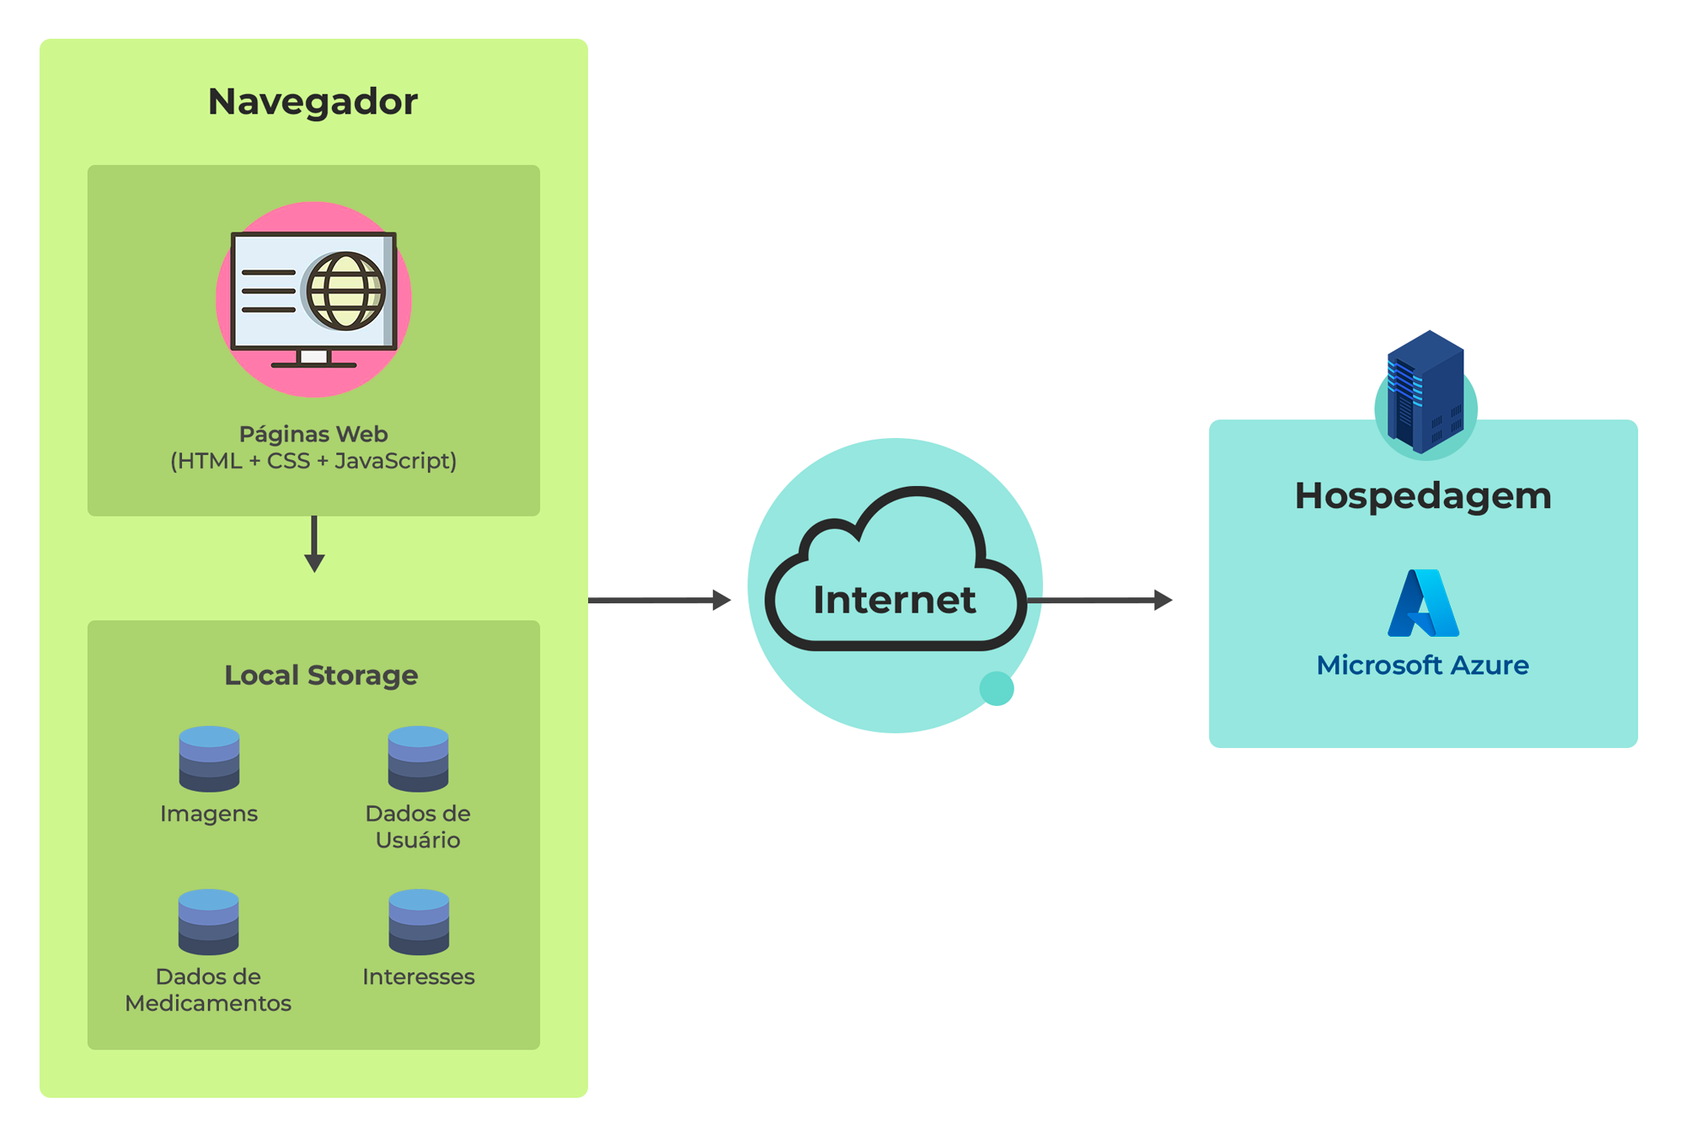
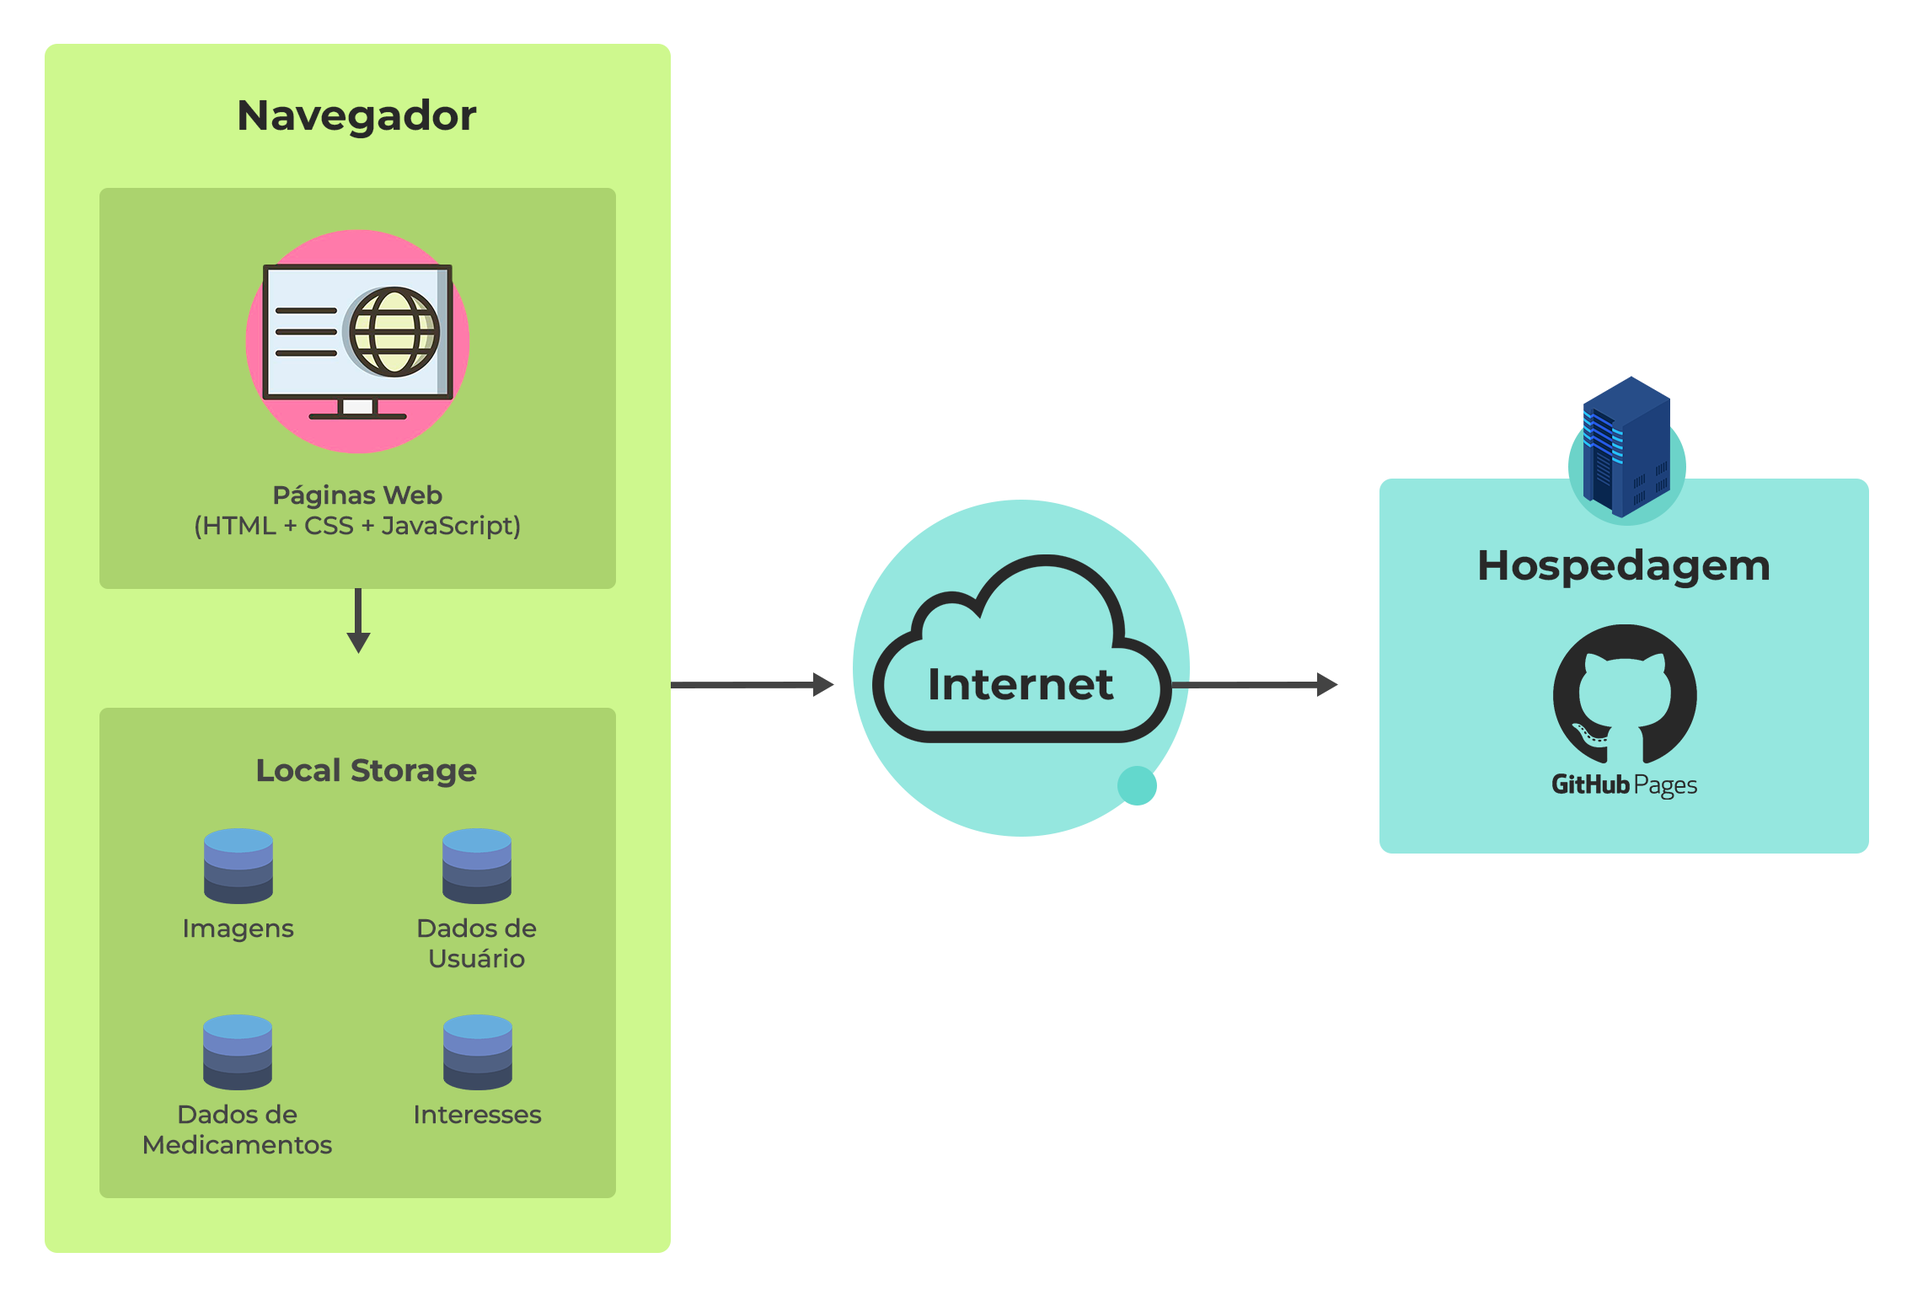
Atualizando Documentação (5, 6 e 7)

diff --git a/docs/06-Template padrão do Site.md b/docs/06-Template padrão do Site.md
@@ -1,12 +1,119 @@
 # Template padrão do site
 
-<span style="color:red">Pré-requisitos: <a href="2-Especificação do Projeto.md"> Especificação do Projeto</a></span>, <a href="3-Projeto de Interface.md"> Projeto de Interface</a>, <a href="4-Metodologia.md"> Metodologia</a>
+O template padrão do site vai seguir a estrutura padrão do Wireframe elaborado na seção anterior, conforme mostra a Figura 15.
 
-Layout padrão do site (HTML e CSS) que será utilizado em todas as páginas com a definição de identidade visual, aspectos de responsividade e iconografia.
+![Estrutura Padrão](img/figura15-estruturapadrao.png)
 
-> **Links Úteis**:
->
-> - [CSS Website Layout (W3Schools)](https://www.w3schools.com/css/css_website_layout.asp)
-> - [Website Page Layouts](http://www.cellbiol.com/bioinformatics_web_development/chapter-3-your-first-web-page-learning-html-and-css/website-page-layouts/)
-> - [Perfect Liquid Layout](https://matthewjamestaylor.com/perfect-liquid-layouts)
-> - [How and Why Icons Improve Your Web Design](https://usabilla.com/blog/how-and-why-icons-improve-you-web-design/)
+Para visualizar o template é só acessar o repositório do grupo [aqui](https://github.com/ICEI-PUC-Minas-PMV-ADS/REDOM-PET). O mesmo é composto pelos seguintes layouts:  
+
+- Tela da Homepage 
+- Tela de Login 
+- Tela de Cadastro de Usuário 
+- Tela de Medicamentos  
+- Tela de Cadastro do Medicamento 
+- Tela de Informações do Medicamento/Contato do doador
+- Tela de Perfil do Usuário 
+- Tela de Edição do Medicamento 
+
+A responsividade do site segue o padrão do Bootstrap.
+  
+##Tela – Homepage
+ 
+Objetivo: ser a primeira página que os usuários veem ao acessar a URL do site. 
+
+![Homepage](img/figura16-homepage.png)
+
+- Ao acessar o site o usuário irá visualizar, no topo da página, na área de navegação, a logo da REDOM-PET e as opções clicáveis de Home, Medicamentos e Doar;  
+- No canto superior direito, o usuário poderá criar o seu Cadastro no site ou fazer o Login; 
+- É exibido, na Homepage, o “Quem Somos” e “Nossa Missão” - trata-se de uma descrição sobre a REDOM-PET; 
+- O site conta com dois botões: o “Quero Doar” e “Quero Receber”; 
+- Ao clicar no botão “Quero Doar”: 
+    - o	Se não estiver logado, o usuário será redirecionado para a tela de Login onde preencherá com os seus dados de acesso. Após o login, a página de Cadastro de medicamento será exibida; 
+        - Caso não esteja logado e, também, não tenha cadastro, na tela de Login haverá a possibilidade de clicar na opção “Quero me cadastrar” e prosseguir com o cadastro na tela “Cadastro de Usuário”; 
+    - o	Caso esteja logado, o usuário será redirecionado para a tela de Cadastro de Medicamento; 
+- Ao clicar no botão “Quero Receber” o usuário será redirecionado para a tela de visualização de Medicamentos; 
+- Ao final da página serão exibidos alguns depoimentos sobre a REDOM-PET e o rodapé. 
+
+##Tela – Login 
+ 
+Objetivo: O sistema deve permitir o login do usuário cadastrado. 
+
+![Tela de login](img/figura17-teladelogin.png)
+
+- O usuário já cadastrado no site deverá informar o “E-mail” e “Senha” e clicar no botão “Acessar” para fazer o login; 
+- Ao logar, o sistema redirecionará para a “Homepage” do site; 
+- Em caso de esquecer a senha deverá clicar em “Esqueci a senha” e prosseguir para outra página para recuperá-la; 
+- Caso não tenha realizado o cadastro ainda, o usuário deverá clicar em “Quero me cadastrar” e prosseguir com o cadastro em outra tela.
+
+##Tela – Cadastro de Usuário 
+
+Objetivo: Realizar o cadastro do usuário através do preenchimento das suas informações pessoais.  
+
+![Tela de cadastro de usuario](img/figura18-teladecadastrodeusuario.png)
+
+- Na tela “Cadastro de Usuário” o usuário deverá preencher os respectivos campos com suas informações pessoais como nome completo, data de nascimento, endereço e telefone; 
+- Em seguida, o usuário deverá colocar um e-mail e uma senha para efetivar o cadastro que, posteriormente, serão usados para o login no site.
+
+##Tela – Perfil do Usuário 
+
+Objetivo: Visualizar as informações de cadastro do usuário, como também a lista de medicamentos cadastrados pelo usuário e a lista com os medicamentos que ele deseja ter. 
+
+![Tela de perfil do usuario](img/figura19-teladeperfildeusuario.png)
+
+- Nesta tela o usuário visualizará sua foto de perfil e seu nome, tendo a opção de editar a foto de perfil ao clicar em “Alterar foto”; 
+- O usuário poderá visualizar seus dados cadastrais e ao clicar no botão “Editar” irá alterar qualquer um dos campos que desejar; 
+- O usuário poderá visualizar suas informações de contato e ao clicar no botão “Editar” irá alterar qualquer um dos campos que desejar. Essas informações serão exibidas para as pessoas que clicarem em “Eu quero” no medicamento que este usuário cadastrou para doação; 
+- Nessa tela o usuário visualizará os medicamentos que ele cadastrou para doação em forma de listagem tendo a opção de desativar ou ativar o anúncio do medicamento, editar as informações do medicamento ao clicar no ícone “lápis” e tirar o medicamento da listagem quando clicar no ícone “x”. No mesmo local, o usuário terá também a opção de “Cadastrar novo medicamento” caso ele tenha mais medicamentos para doação. 
+- O usuário poderá acompanhar em uma listagem os medicamentos que ele marcou como “Eu Quero”, podendo clicar no nome do medicamento para ser redirecionado a tela de Informações de Medicamento do mesmo. 
+ 
+##Tela – Edição do Medicamento 
+
+Objetivo: Permitir a edição das informações do medicamento. 
+
+![Tela de edicao de medicamentos](img/figura20-teladeedicaodomedicamento.png)
+
+- O usuário poderá editar as informações do medicamento como Nome do Medicamento, a Observação, a Quantidade, a Validade e o Tipo de Medicamento; 
+- Na opção de “Tipo de Medicamento” ele poderá escolher os seguintes tipos: comprimido, líquido, spray, granulado, creme e outros; 
+- Ao finalizar a edição deverá clicar em “Salvar” para que as alterações sejam salvas. 
+ 
+##Tela – Medicamentos 
+
+Objetivos: Visualizar os medicamentos cadastrados no site pelos doadores.  
+
+![Tela de Medicamentos](img/figura21-telademedicamentos.png)
+
+- A tela contará com uma barra de pesquisa onde o usuário poderá fazer a busca pelo medicamento; 
+- O usuário visualizará os medicamentos que pesquisou; 
+- Ao clicar no botão “Mais informações” será encaminhado para uma página onde poderá visualizar, em detalhes, as informações do medicamento. 
+ 
+##Tela - Informações do Medicamento 
+ 
+Objetivo: Permitir a visualização das informações do medicamento, assim como as informações de contato do doador. 
+
+![Tela de Informações do Medicamento/Contato do doador](img/figura22-teladeinformacoesdemedicamento-contatodoador.png)
+
+- Ao entrar na tela de informações do medicamento o receptor irá visualizar campos como descrição, quantidade, tipo, validade e uma foto do medicamento; 
+- Essa página contará com um botão “Eu quero” para sinalizar o interesse do receptor naquele medicamento; 
+- Ao clicar no botão “Eu quero” aparecerá para o receptor as informações de contato com o doador, como nome, telefone e e-mail. 
+ 
+##Tela – Cadastro de Medicamento 
+
+Objetivo: Permitir o cadastro de um medicamento para possível doação através de informações relevantes como, nome, quantidade, data de validade, entre outros.  
+
+![Tela de Cadastro do Medicamento](img/figura23-teladecadastrodomedicamento.png)
+
+- Ao acessar a tela é possível visualizar os campos para preenchimento, como Nome do Medicamento, Observação, anexo de imagem e um botão para confirmar o cadastro desejado. 
+- Caso o usuário queira cadastrar um medicamento ele deve preencher obrigatoriamente os campos nome, tipo de medicamento, quantidade e informar a data de validade. Se desejar, existe a possibilidade de preencher o campo de “Observação” com informações a respeito do medicamento.  
+- O campo tipo de medicamento é preenchido através de uma caixa de seleção que permite ao usuário selecionar se o medicamento é na forma de comprimido, líquido, spray, entre outros. 
+- Desejando inserir uma imagem, deve-se clicar sobre a área “Enviar foto do medicamento”. 
+- Após a conclusão das etapas anteriores basta clicar no botão cadastrar para concluir o cadastro do medicamento.
+
+
+
+
+
+
+
+
+
+

diff --git a/docs/07-Programação de Funcionalidades.md b/docs/07-Programação de Funcionalidades.md
@@ -1,15 +1,201 @@
-# Programação de Funcionalidades
+# Funcionalidades do Sistema (Telas)
 
-<span style="color:red">Pré-requisitos: <a href="2-Especificação do Projeto.md"> Especificação do Projeto</a></span>, <a href="3-Projeto de Interface.md"> Projeto de Interface</a>, <a href="4-Metodologia.md"> Metodologia</a>, <a href="3-Projeto de Interface.md"> Projeto de Interface</a>, <a href="5-Arquitetura da Solução.md"> Arquitetura da Solução</a>
+Nesta seção são apresentadas as telas desenvolvidas pelo grupo em HTML e CSS para cada uma das funcionalidades do sistema.  
 
-Implementação do sistema descritas por meio dos requisitos funcionais e/ou não funcionais. Deve relacionar os requisitos atendidos os artefatos criados (código fonte) além das estruturas de dados utilizadas e as instruções para acesso e verificação da implementação que deve estar funcional no ambiente de hospedagem.
+##Homepage (RF-12) 
 
-Para cada requisito funcional, pode ser entregue um artefato desse tipo
+![Homepage](img/tela-home1.png)
 
-> **Links Úteis**:
->
-> - [Trabalhando com HTML5 Local Storage e JSON](https://www.devmedia.com.br/trabalhando-com-html5-local-storage-e-json/29045)
-> - [JSON Tutorial](https://www.w3resource.com/JSON)
-> - [JSON Data Set Sample](https://opensource.adobe.com/Spry/samples/data_region/JSONDataSetSample.html)
-> - [JSON - Introduction (W3Schools)](https://www.w3schools.com/js/js_json_intro.asp)
-> - [JSON Tutorial (TutorialsPoint)](https://www.tutorialspoint.com/json/index.htm)
+![Homepage 2](img/tela-home2.png)
+
+###Requisitos atendidos 
+
+- RF-12: O site deve ter em sua homepage a missão e informações sobre a REDOM-PET (Rede de Doação de Medicamentos para PET), assim como um botão de “Quero Doar” e um botão de “Quero Receber” e uma seção dedicada aos depoimentos.
+ 
+###Artefatos da funcionalidade 
+- index.html 
+- style.css 
+- logo.png 
+- iconefoto-cabecalho.png
+- menina-home.png 
+- nossamissao-home.png 
+- catdog-home.png 
+- querodoar-home.png 
+- queroreceber-home.png 
+- depoimento-1.png 
+- depoimento-2.png 
+- depoimento-3.png 
+- depoimento-4.png 
+- depoimento-5.png 
+- depoimento-6.png 
+- logo-rodape.png 
+- logopucminas-rodape.png 
+
+###Instruções de acesso
+
+- Abra o navegador de internet e acesse o site: https://icei-puc-minas-pmv-ads.github.io/REDOM-PET;
+- A primeira página exibida é a Homepage.
+
+##Login (RF-07)
+
+![Tela de login](img/tela-login.png)
+
+###Requisitos atendidos 
+
+- RF-07: O sistema permitirá o acesso dos usuários através de uma página com login e senha.
+
+###Artefatos da funcionalidade 
+- login.html 
+- login-styles.css 
+- logo.png 
+- dog-login.png 
+ 
+###Instruções de acesso
+
+- Abra o navegador de internet e acesse o site: https://icei-puc-minas-pmv-ads.github.io/REDOM-PET;
+- A primeira página exibida é a Homepage;
+- Em seguida clique em “Login” na barra de navegação.
+
+##Cadastro de Usuário (RF-01, RF-03) 
+
+![Perfil do Usuário](img/tela-perfiDoUsuario1.png)
+
+![Perfil do Usuário 2](img/tela-perfiDoUsuario1.png)
+
+###Requisitos atendidos 
+- RF-02: O sistema permitirá que os usuários façam alterações em seus cadastros. 
+- RF-10: O site deverá conter um botão para o doador pausar o anúncio e quando esse botão for acionado, o contato com o doador será suspenso. 
+- RF-11: O site deve ter um botão que permita a exclusão do remédio pelo doador quando ele desejar ou fizer a doação do mesmo. 
+
+###Artefatos da funcionalidade
+- perfil-do-usuario.html  
+- perfil-do-usuario-styles.css 
+- logo.png 
+- iconefoto-cabecalho.png
+- iconefoto-perfil-do-usuario.png 
+- lapis-perfil-do-usuario.png
+- logo-rodape.png 
+- logopucminas-rodape.png 
+
+###Instruções de acesso
+
+- Abra o navegador de internet e acesse o site: https://icei-puc-minas-pmv-ads.github.io/REDOM-PET;
+- A primeira página exibida é a Homepage;
+- Clique em “Login” na barra de navegação;
+- Efetue o login;
+- Clique no ícone de foto no canto direito na barra de navegação para ver o “Perfil do usuário”;
+- Se quiser alterar alguma informação, clique no ícone de lápis ao lado de “Dados cadastrais” e “Informações de Contato”;
+- Caso queira pausar algum anúncio de medicamento, deverá desativar o botão localizado na seção “Medicamentos que cadastrei para doação”, ao lado do ícone de lápis.
+
+
+##Medicamentos (RF-08) 
+
+![Tela de Medicamentos](img/tela-medicamentos1.png)
+
+![Tela de Medicamentos 2](img/tela-medicamentos2.png)
+
+###Requisitos atendidos
+
+- RF-08: O site deve ter uma funcionalidade de pesquisa que permita ao receptor buscar pelo medicamento que deseja obter. 
+
+
+###Artefatos da funcionalidade
+- medicamento.html 
+- medicamento-styles.html 
+- logo.png 
+- iconefoto-cabecalho.png
+- imagem-medicamento.png 
+- logo-rodape.png 
+- logopucminas-rodape.png 
+
+###Estrutura de Dados
+
+Será desenvolvido posteriormente.
+ 
+###Instruções de acesso
+
+- Abra o navegador de internet e acesse o site: https://icei-puc-minas-pmv-ads.github.io/REDOM-PET;
+- A primeira página exibida é a Homepage;
+- Clique em “Medicamentos” para acessar a página dos medicamentos cadastrados e realizar a busca por algum específico;
+
+
+##Informações do Medicamento (RF-09) 
+
+![Tela de Informações do Medicamento/Contato do doador](img/tela-InformacoesDoMedicamento.png)
+
+###Requisitos atendidos: 
+
+- RF-09: O site deve ter um botão para exibir as informações do medicamento e de contato do doador para que o receptor possa se comunicar com o mesmo. 
+
+###Artefatos da funcionalidade
+- informacao-do-medicamento.html 
+- informacao-do-medicamento-styles.css 
+- logo.png 
+- iconefoto-cabecalho.png 
+- foto-medicamento
+- logo-rodape.png 
+- logopucminas-rodape.png 
+
+###Instruções de acesso
+
+- Abra o navegador de internet e acesse o site: https://icei-puc-minas-pmv-ads.github.io/REDOM-PET;
+- A primeira página exibida é a Homepage;
+- Clique em “Medicamentos” para acessar a página dos medicamentos cadastrados e realizar a busca por algum específico;
+- Clique “Mais informações” para acessar as informações do medicamento;
+- Se tiver interesse no medicamento, clique em “Eu quero” para visualizar as informações do doador.
+
+##Cadastro de Medicamento (RF-04, RF-05) 
+
+![Tela de Cadastro de Medicamento](img/tela-cadastroMedicamento.png)
+
+###Requisitos atendidos
+
+- RF-04: O site deve permitir o cadastro de medicamentos para doação, com tais campos de preenchimento: Nome, Observação, Tipos de Medicamentos, Quantidade e Validade. 
+- RF-05: O site permitirá a submissão de registros fotográficos dos medicamentos ao cadastrá-los. 
+
+###Artefatos da funcionalidade
+- cadastro-medicamento.html 
+- cadastro-medicamento-styles.css 
+- logo.png 
+- iconefoto-cabecalho.png 
+- camera-cadastro-de-medicamento.png 
+- logo-rodape.png 
+- logopucminas-rodape.png
+
+##Estrutura de Dados
+
+Será desenvolvido posteriormente.
+ 
+###Instruções de acesso
+
+- Abra o navegador de internet e acesse o site: https://icei-puc-minas-pmv-ads.github.io/REDOM-PET;
+- A primeira página exibida é a Homepage;
+- Clique em “Doar” para acessar a página de “Cadastro de Medicamento”;
+- Preencha os campos obrigatórios e clique em “Cadastrar”.
+
+##Editar Informações do Medicamento (RF-13) 
+
+![Tela de Edição das Informações do Medicamento](img/tela-editarInformacoesDoMedicamento.png)
+
+###Requisitos atendidos
+- RF-13: O site deve permitir a edição das informações do medicamento cadastrado.
+
+
+###Artefatos da funcionalidade
+- edicao-medicamento.html 
+- edicao-medicamento-styles.css 
+- logo.png 
+- iconefoto-cabecalho.png 
+- foto-medicamento.png
+- lapis-perfil-do-usuario
+- logo-rodape.png 
+- logopucminas-rodape.png
+
+###Instruções de acesso
+
+- Abra o navegador de internet e acesse o site: https://icei-puc-minas-pmv-ads.github.io/REDOM-PET;
+- A primeira página exibida é a Homepage;
+- Clique em “Login” na barra de navegação;
+- Efetue o login;
+- Clique no ícone de foto no canto direito na barra de navegação para ver o “Perfil do usuário”
+- Nessa página você irá visualizar uma coluna no canto esquerdo com os medicamentos cadastrados, clique no ícone de lápis para editar as informações do medicamento selecionado.

diff --git a/docs/05-Arquitetura da Solução.md b/docs/05-Arquitetura da Solução.md
@@ -24,10 +24,10 @@ A solução implementada conta com os seguintes módulos:
 
 Para a implementação da solução faremos uso de algumas tecnologias, tal como o Visual Studio Code (VS Code), trata-se de um editor de código-fonte - também conhecido como IDE de desenvolvimento – foi escolhido por ser de fácil utilização. A equipe faz uso da ferramenta de comunicação da Microsoft, o Teams, onde acontece as reuniões com a orientadora do projeto. 
 Para a criação dos wireframes e protótipos foi escolhido o Figma por se tratar de uma ferramenta de design para interfaces com possibilidade de trabalho colaborativo, além da forma intuitiva como ele se apresenta. Para uma segurança dos arquivos, definimos o OneDrive, serviço de armazenamento em nuvem da Microsoft, como ferramenta de backup e armazenamento. 
-O GitHub também está sendo utilizado por se tratar de um serviço baseado em nuvem e que hospeda um sistema de controle de versão – o Git –. Para a hospedagem da nossa aplicação será utilizado o Microsoft Azure.  
+O GitHub também está sendo utilizado por se tratar de um serviço baseado em nuvem e que hospeda um sistema de controle de versão – o Git –. Para a hospedagem da nossa aplicação será utilizado o GitHub Pages, trata-se de um serviço de hospedagem de site estático que usa arquivos HTML, CSS e JavaScript diretamente de um repositório no GitHub.
 Pela equipe ser iniciante na área e não ter conhecimento de frameworks ainda, utilizaremos as linguagens ensinadas na disciplina de Desenvolvimento Web Front-End que são: HTML, CSS e JavaScript. 
 
 ## Hospedagem
 
-O site do projeto utiliza a plataforma Microsoft Azure como serviço de hospedagem. O site pode ser [acessado aqui](https://testeredompet.azurewebsites.net/).
+O site do projeto utiliza a plataforma GitHub Pages como serviço de hospedagem. O site pode ser [acessado aqui](https://icei-puc-minas-pmv-ads.github.io/REDOM-PET/).
 

diff --git a/docs/02-Especificação do Projeto.md b/docs/02-Especificação do Projeto.md
@@ -82,7 +82,7 @@ Os requisitos funcionais do projeto e seus respectivos níveis de prioridade de 
 |RF-10| O site deverá conter um botão para o doador pausar o anúncio e quando esse botão for acionado, o contato com o doador será suspenso. | ALTA |
 |RF-11| O site deve ter um botão que permita a exclusão do remédio pelo doador quando ele desejar ou fizer a doação do mesmo. | ALTA |
 |RF-12| O site deve ter em sua homepage a missão e informações sobre a REDOM-PET (Rede de Doação de Medicamentos para PET), assim como um botão de “Quero Doar” e um botão de “Quero Receber” e uma seção dedicada aos depoimentos. | MÉDIA |
-
+|RF-13| O site deve permitir a edição das informações do medicamento cadastrado. | MÉDIA |
 
 ### Requisitos não Funcionais
 
